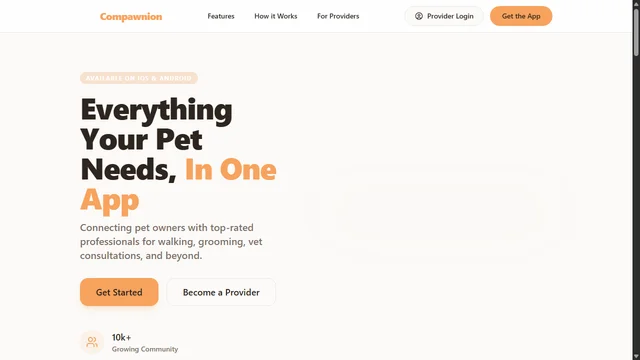
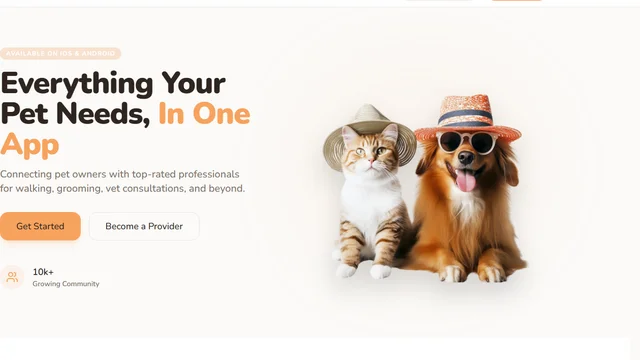
fix(visual): audit fixes for hero billboard, project covers, catalog filters, spotify embed, and layout gaps

diff --git a/src/data/projects.ts b/src/data/projects.ts
@@ -205,8 +205,8 @@ export const projectsData: Project[] = [
     description: 'Ekosistem manajemen finansial komprehensif yang menghubungkan web dashboard dengan aplikasi native Android. Menghadirkan pencatatan transaksi cepat, proyeksi arus kas visual, multi-wallet balance, dan kontrol persetujuan transaksi keluarga/bisnis.',
     descriptionEn: "Comprehensive financial management ecosystem connecting a web dashboard with a native Android application. Features fast transaction logging, visual cash flow projections, multi-wallet balances, and shared account approval workflows.",
     techStack: ['React.js', 'Supabase', 'PostgreSQL', 'Java', 'Android Studio', 'Firebase'],
-    projectUrl: '',
-    verifiedLiveUrl: '',
+    projectUrl: 'https://cashflow-aesthetic.vercel.app',
+    verifiedLiveUrl: 'https://cashflow-aesthetic.vercel.app',
     githubUrl: 'https://github.com/atriadha99/TemuCashflow',
     verifiedGithubUrl: 'https://github.com/atriadha99/TemuCashflow',
     isFeatured: true,
@@ -339,8 +339,8 @@ export const projectsData: Project[] = [
     description: 'Situs identitas digital studio yang memadukan filosofi desain editorial streaming, interaksi mikro presisi, tipografi neo-grotesk berani, dan performa tinggi tanpa kompromi.',
     descriptionEn: "Signature personal digital studio portfolio combining streaming editorial design aesthetics, precision micro-interactions, bold neo-grotesk typography, and uncompromised performance.",
     techStack: ['Next.js (App Router)', 'TypeScript', 'Tailwind CSS', 'Framer Motion', 'Lenis Scroll'],
-    projectUrl: 'https://noctra-dev.vercel.app',
-    verifiedLiveUrl: 'https://noctra-dev.vercel.app',
+    projectUrl: 'https://atriadha.my.id',
+    verifiedLiveUrl: 'https://atriadha.my.id',
     githubUrl: 'https://github.com/atriadha99/noctra-portfolio',
     verifiedGithubUrl: 'https://github.com/atriadha99/noctra-portfolio',
     isFeatured: true,
@@ -402,8 +402,8 @@ export const projectsData: Project[] = [
     description: 'Portal web destinasi wisata alam terpadu yang menampilkan peta atraksi interaktif, estimasi tiket rekreasi dinamis, panduan konservasi alam, dan navigasi fasilitas rekreasi keluarga di Garut.',
     descriptionEn: "Integrated natural tourism portal featuring interactive attraction trail maps, dynamic ticket cost estimations, conservation guidelines, and family leisure guides in Garut.",
     techStack: ['React.js', 'Tailwind CSS', 'Leaflet Maps', 'Vite', 'REST API'],
-    projectUrl: '',
-    verifiedLiveUrl: '',
+    projectUrl: 'https://sabda-alam-garut.vercel.app',
+    verifiedLiveUrl: 'https://sabda-alam-garut.vercel.app',
     githubUrl: 'https://github.com/atriadha99/sabda-alam-garut-website',
     verifiedGithubUrl: 'https://github.com/atriadha99/sabda-alam-garut-website',
     isFeatured: true,

diff --git a/src/components/streaming/StreamingCatalogFilter.tsx b/src/components/streaming/StreamingCatalogFilter.tsx
@@ -93,8 +93,11 @@ export default function StreamingCatalogFilter() {
         {/* Live Filter Metric */}
         <div className="flex items-center gap-3 text-xs font-mono text-zinc-400">
           <span>
-            {t('MENAMPILKAN', 'SHOWING')} <strong className="text-white font-bold">{filteredProjects.length}</strong> {t('DARI', 'OF')}{' '}
-            {projectsData.length} {t('JUDUL', 'TITLES')}
+            {t('MENAMPILKAN', 'SHOWING')}{' '}
+            <strong className="text-white font-bold">{filteredProjects.length}</strong>{' '}
+            {t('DARI', 'OF')}{' '}
+            <strong className="text-white font-bold">{projectsData.length}</strong>{' '}
+            {t('JUDUL', 'TITLES')}
           </span>
           {hasActiveFilter && (
             <button
@@ -108,9 +111,9 @@ export default function StreamingCatalogFilter() {
       </div>
 
       {/* Filter & Search Toolbar */}
-      <div className="flex flex-col lg:flex-row items-stretch lg:items-center justify-between gap-4 p-3 rounded-2xl bg-zinc-950/70 border border-white/10 backdrop-blur-md">
-        {/* Category Pills (Horizontal scroll on mobile) */}
-        <div className="flex items-center gap-2 overflow-x-auto pb-1 lg:pb-0 scrollbar-none">
+      <div className="flex flex-col xl:flex-row items-stretch xl:items-center justify-between gap-4 p-3 rounded-2xl bg-zinc-950/70 border border-white/10 backdrop-blur-md">
+        {/* Category Pills (Wraps cleanly on desktop so all pills are visible) */}
+        <div className="flex flex-wrap items-center gap-2">
           {categories.map((cat) => {
             const isSelected = selectedCategory === cat.id;
             const count =
@@ -118,7 +121,10 @@ export default function StreamingCatalogFilter() {
                 ? bookmarkedIds.length
                 : cat.id === 'ALL'
                 ? projectsData.length
-                : projectsData.filter((p) => p.categoryGroup === cat.id).length;
+                : projectsData.filter((p) =>
+                    p.categories?.includes(cat.id as any) ||
+                    p.category.toLowerCase().includes(cat.id.toLowerCase())
+                  ).length;
 
             return (
               <button

diff --git a/src/components/Experience.tsx b/src/components/Experience.tsx
@@ -8,9 +8,9 @@ export default function Experience() {
   const { t } = useLanguageStore();
 
   return (
-    <section id="experience" className="py-28 md:py-36 px-6 md:px-12 max-w-7xl mx-auto border-t border-white/[0.08]">
+    <section id="experience" className="py-12 md:py-16 px-6 md:px-12 max-w-7xl mx-auto border-t border-white/[0.08]">
       {/* Section Header */}
-      <div className="flex flex-col md:flex-row md:items-end justify-between mb-16 md:mb-20 gap-6">
+      <div className="flex flex-col md:flex-row md:items-end justify-between mb-12 md:mb-14 gap-6">
         <div>
           <div className="flex items-center gap-3 text-xs font-mono tracking-[0.25em] text-[#E50914] mb-3 uppercase font-bold">
             <span>{t('DOKUMENTASI REKAM JEJAK & PENGALAMAN', 'TRACK RECORD & EXPERIENCE ARCHIVE')}</span>
@@ -27,9 +27,9 @@ export default function Experience() {
         </p>
       </div>
 
-      <div className="grid grid-cols-1 lg:grid-cols-12 gap-12 lg:gap-16 items-start">
+      <div className="grid grid-cols-1 lg:grid-cols-12 gap-8 lg:gap-12 items-start">
         {/* Experience Timeline Column */}
-        <div className="lg:col-span-8 space-y-8">
+        <div className="lg:col-span-7 space-y-8">
           <p className="text-xs font-mono tracking-widest text-zinc-500 uppercase pb-2 border-b border-white/[0.08]">
             TIMELINE KRONOLOGIS // 2018 — 2026
           </p>
@@ -87,7 +87,7 @@ export default function Experience() {
         </div>
 
         {/* Education & Context Column */}
-        <div className="lg:col-span-4 space-y-10 lg:border-l lg:border-white/[0.08] lg:pl-10">
+        <div className="lg:col-span-5 space-y-8 lg:border-l lg:border-white/[0.08] lg:pl-8 sticky top-24">
           {/* F&B Operational Philosophy Note */}
           <div className="p-6 rounded-2xl border border-white/[0.08] bg-[#0c0c10] space-y-3 font-mono text-xs">
             <span className="text-blue-400 font-bold block">// WHY BARISTA MATTERS</span>

diff --git a/src/components/streaming/ProjectCard.tsx b/src/components/streaming/ProjectCard.tsx
@@ -151,11 +151,11 @@ export default function ProjectCard({ project }: ProjectCardProps) {
         )}
       </div>
 
-      {/* Netflix Hover Enlarge Popup Panel (Desktop) */}
+      {/* Netflix Hover Enlarge Popup Panel (Desktop) - bounded to card footprint to avoid covering neighbors */}
       <div
-        className={`hidden md:block absolute -top-12 -left-8 w-[380px] rounded-md bg-[#181818] shadow-2xl border border-white/20 z-50 overflow-hidden transition-all duration-300 pointer-events-none ${
+        className={`hidden md:block absolute -top-3 -left-1 w-[calc(100%+8px)] rounded-md bg-[#181818] shadow-2xl border border-white/20 z-50 overflow-hidden transition-all duration-300 pointer-events-none ${
           isHovered
-            ? 'opacity-100 scale-105 pointer-events-auto shadow-[0_10px_30px_rgba(0,0,0,0.9)]'
+            ? 'opacity-100 scale-[1.02] pointer-events-auto shadow-[0_12px_36px_rgba(0,0,0,0.95)]'
             : 'opacity-0 scale-95 pointer-events-none'
         }`}
       >
@@ -293,11 +293,11 @@ export default function ProjectCard({ project }: ProjectCardProps) {
           </div>
 
           {/* Genre Chips with Red Dots */}
-          <div className="flex items-center gap-1.5 text-xs text-white truncate">
+          <div className="flex flex-wrap items-center gap-1.5 text-xs text-white">
             {project.techStack.map((tech, i) => (
               <React.Fragment key={tech}>
                 {i > 0 && <span className="text-[#E50914] text-[10px]">•</span>}
-                <span>{tech}</span>
+                <span className="whitespace-nowrap">{tech}</span>
               </React.Fragment>
             ))}
           </div>

diff --git a/src/components/streaming/BecauseYouViewed.tsx b/src/components/streaming/BecauseYouViewed.tsx
@@ -197,7 +197,7 @@ export default function BecauseYouViewed() {
               >
                 {/* Top Badge & Match Index */}
                 <div className="space-y-3">
-                  <div className="flex items-center justify-between text-[11px] font-mono">
+                  <div className="flex items-center justify-between text-[11px] font-mono gap-2">
                     <span
                       className="px-2 py-0.5 rounded-full text-[10px] font-semibold border"
                       style={{
@@ -208,7 +208,7 @@ export default function BecauseYouViewed() {
                     >
                       {tech.categoryTag}
                     </span>
-                    <span className="text-emerald-400 font-bold">{tech.matchScore}% MATCH</span>
+                    <span className="text-emerald-400 font-bold whitespace-nowrap shrink-0">{tech.matchScore}% MATCH</span>
                   </div>
 
                   <div>
@@ -235,7 +235,7 @@ export default function BecauseYouViewed() {
                       <button
                         key={p!.id}
                         onClick={() => openModal(p!)}
-                        className="text-[11px] font-mono px-2 py-1 rounded bg-black/60 hover:bg-white hover:text-black text-zinc-300 border border-white/10 transition-all truncate max-w-[150px]"
+                        className="text-[11px] font-mono px-2.5 py-1 rounded bg-black/60 hover:bg-white hover:text-black text-zinc-300 border border-white/10 transition-all text-left whitespace-normal leading-snug cursor-pointer"
                       >
                         {p!.title}
                       </button>

diff --git a/src/components/StudioMusic.tsx b/src/components/StudioMusic.tsx
@@ -6,7 +6,8 @@ import { Howl } from 'howler';
 import { useMusicStore } from '@/store/music-store';
 
 export default function StudioMusic() {
-  const playlistId = '2KEFUQb2SGRQHycm9VQuJ4';
+  // Verified official Spotify playlist: "Coding Mode" (ambient / electronic focus beats)
+  const playlistId = '37i9dQZF1DX5trtVJQhWOS';
   const soundRef = useRef<Howl | null>(null);
   const { isPlaying, toggle } = useMusicStore();
 
@@ -36,7 +37,7 @@ export default function StudioMusic() {
   }, [isPlaying]);
 
   return (
-    <section id="studio-sound" className="py-24 md:py-32 px-6 md:px-12 max-w-7xl mx-auto border-t border-white/[0.08]">
+    <section id="studio-sound" className="py-12 md:py-16 px-6 md:px-12 max-w-7xl mx-auto border-t border-white/[0.08]">
       <div className="grid grid-cols-1 lg:grid-cols-12 gap-10 items-center">
         {/* Editorial Heading Column */}
         <div className="lg:col-span-5 space-y-6">
@@ -100,7 +101,7 @@ export default function StudioMusic() {
                 style={{ borderRadius: '12px' }}
                 src={`https://open.spotify.com/embed/playlist/${playlistId}?utm_source=generator&theme=0`}
                 width="100%"
-                height="352"
+                height="440"
                 frameBorder={0}
                 allowFullScreen
                 allow="autoplay; clipboard-write; encrypted-media; fullscreen; picture-in-picture"

diff --git a/src/components/streaming/CinematicHero.tsx b/src/components/streaming/CinematicHero.tsx
@@ -72,12 +72,22 @@ export default function CinematicHero() {
             transition={{ duration: 0.9, ease: 'easeOut' }}
             className="absolute inset-0 w-full h-full"
           >
-            {/* Simulated Live Video / Canvas Telemetry */}
+            {/* Real 16:9 Project Screenshot as Authentic Cinematic Billboard Backdrop */}
+            <img
+              src={`/covers/${currentProject.id}.webp`}
+              alt={currentProject.title}
+              className="absolute inset-0 w-full h-full object-cover object-top opacity-65 md:opacity-75 transition-opacity duration-700"
+              onError={(e) => {
+                (e.currentTarget as HTMLElement).style.display = 'none';
+              }}
+            />
+
+            {/* Subtle Telemetry Overlay */}
             <SimulatedVideoPreview
               project={currentProject}
               isPlaying={true}
               isMuted={isMuted}
-              className="w-full h-full object-cover"
+              className="w-full h-full object-cover mix-blend-screen opacity-35"
             />
           </motion.div>
         </AnimatePresence>

diff --git a/src/components/Footer.tsx b/src/components/Footer.tsx
@@ -14,8 +14,8 @@ export default function Footer() {
   };
 
   return (
-    <footer className="border-t border-white/10 bg-[#141414] text-[#737373] py-16 px-4 sm:px-8 md:px-12 text-[13px] font-sans">
-      <div className="max-w-6xl mx-auto space-y-8">
+    <footer className="border-t border-white/10 bg-[#141414] text-[#737373] py-10 sm:py-12 px-6 sm:px-10 md:px-16 text-[13px] font-sans">
+      <div className="max-w-7xl lg:max-w-[1400px] mx-auto space-y-8">
         {/* Top Contact Question */}
         <div className="flex flex-wrap items-center justify-between gap-4">
           <div>
@@ -41,7 +41,7 @@ export default function Footer() {
         </div>
 
         {/* 4 Columns Netflix Links Matrix */}
-        <div className="grid grid-cols-2 sm:grid-cols-3 md:grid-cols-4 gap-4 sm:gap-6 text-xs leading-relaxed">
+        <div className="grid grid-cols-2 sm:grid-cols-3 md:grid-cols-4 gap-6 sm:gap-8 lg:gap-12 text-xs leading-relaxed">
           <div className="space-y-3">
             <a href="#hero" className="block hover:underline">
               {t('Beranda Proyek', 'Project Billboard')}

diff --git a/src/components/streaming/DeveloperJourney.tsx b/src/components/streaming/DeveloperJourney.tsx
@@ -257,7 +257,7 @@ export default function DeveloperJourney() {
           </div>
           <h2 className="font-display text-3xl sm:text-4xl md:text-5xl font-bold tracking-tight text-white flex items-center gap-3">
             <span>Developer Journey</span>
-            <span className="text-xs font-mono px-2.5 py-0.5 rounded-full border border-[#E50914]/40 bg-[#E50914]/10 text-[#E50914] uppercase font-semibold">
+            <span className="text-xs font-mono px-2.5 py-0.5 rounded-full border border-[#E50914]/40 bg-[#E50914]/10 text-[#E50914] uppercase font-semibold whitespace-nowrap shrink-0 inline-flex items-center">
               5 Seasons
             </span>
           </h2>

diff --git a/src/components/streaming/Top10CarouselRow.tsx b/src/components/streaming/Top10CarouselRow.tsx
@@ -97,7 +97,7 @@ export default function Top10CarouselRow({ id, title, projects }: Top10CarouselR
                   <img
                     src={`/covers/${project.id}.webp`}
                     alt={project.title}
-                    className="absolute inset-0 w-full h-full object-cover object-top opacity-40 group-hover/card:opacity-65 transition-opacity"
+                    className="absolute inset-0 w-full h-full object-cover object-center opacity-50 group-hover/card:opacity-75 transition-opacity"
                     onError={(e) => {
                       (e.currentTarget as HTMLElement).style.display = 'none';
                     }}

diff --git a/src/components/ContactSection.tsx b/src/components/ContactSection.tsx
@@ -86,7 +86,7 @@ export default function ContactSection() {
   };
 
   return (
-    <section id="contact" className="py-24 md:py-32 px-4 sm:px-8 md:px-12 max-w-[1400px] mx-auto border-t border-[#2f2f2f]/60">
+    <section id="contact" className="pt-12 pb-10 md:pt-16 md:pb-12 px-4 sm:px-8 md:px-12 max-w-[1400px] mx-auto border-t border-[#2f2f2f]/60">
       {/* Section Header */}
       <div className="flex items-center gap-2.5 text-xs font-bold tracking-widest text-[#E50914] mb-8 uppercase">
         <span className="w-1.5 h-3 bg-[#E50914] rounded-sm"></span>

diff --git a/src/components/About.tsx b/src/components/About.tsx
@@ -20,7 +20,7 @@ import { useLanguageStore } from '@/store/languageStore';
 export default function About() {
   const { t } = useLanguageStore();
   return (
-    <section id="about" className="relative z-10 py-16 md:py-24 px-6 md:px-12 max-w-7xl mx-auto border-t border-white/[0.08]">
+    <section id="about" className="relative z-10 py-10 md:py-14 px-6 md:px-12 max-w-7xl mx-auto border-t border-white/[0.08]">
       {/* Cinematic Studio Header */}
       <div className="flex flex-col md:flex-row md:items-end justify-between gap-6 mb-12">
         <div>
